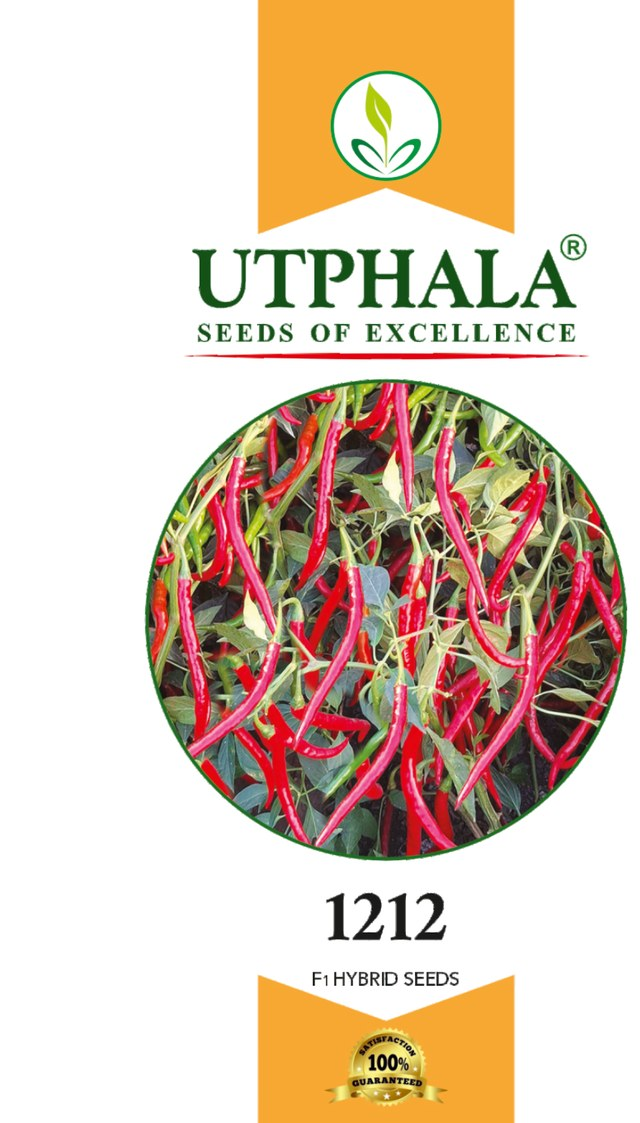
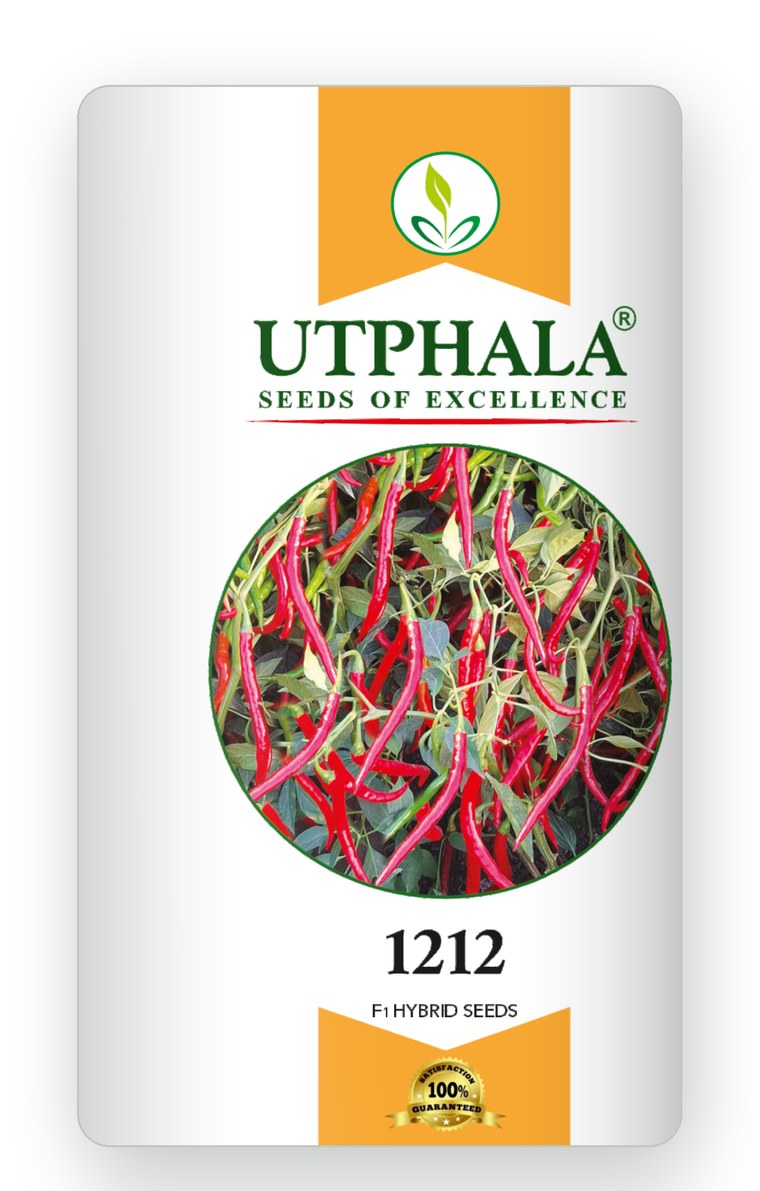
Render the pouches as real packets rather than flat artwork
The previous version pasted the print file straight in, so it read as
four flat rectangles. Each front is now composited into a product shot:
the face is warped onto a 32-degree cylinder so it bulges the way a
filled pouch does, lit from the upper left with a gentle roll-off to
both edges, given a soft film sheen, cut to a pouch silhouette with a
tight top radius and a wider gusseted bottom, outlined with a faint film
edge and dropped on a blurred contact shadow.

All four render onto one canvas size, bottom aligned, so the row shares
a single baseline instead of the shadows sitting at four different
heights.

Shading is multiply-only, so the printed centre of the artwork is
untouched and the branding keeps its exact colour; an earlier attempt
with an additive pass turned the white pouch silver.

The shadow is baked on white to match this section, so .pouch no longer
carries a card background, radius or box-shadow, which would have drawn
a second box behind each packet.

diff --git a/utphala.com/gallery.html b/utphala.com/gallery.html
@@ -9,7 +9,7 @@
   <link rel="preconnect" href="https://fonts.googleapis.com">
   <link rel="preconnect" href="https://fonts.gstatic.com" crossorigin>
   <link href="https://fonts.googleapis.com/css2?family=Poppins:wght@400;500;600;700&family=Nunito:wght@400;600;700&display=swap" rel="stylesheet">
-  <link rel="stylesheet" href="site.css?v=20260808c">
+  <link rel="stylesheet" href="site.css?v=20260808d">
 </head>
 <body>
 
@@ -142,7 +142,7 @@
     <svg viewBox="0 0 32 32"><path d="M16 .5C7.4.5.5 7.4.5 16c0 2.7.7 5.4 2 7.7L.5 31.5l8-2.1c2.3 1.2 4.8 1.9 7.5 1.9 8.6 0 15.5-6.9 15.5-15.5S24.6.5 16 .5zm0 28.2c-2.4 0-4.7-.6-6.7-1.8l-.5-.3-4.7 1.2 1.3-4.6-.3-.5c-1.3-2-2-4.4-2-6.8C3.1 8.9 8.9 3.1 16 3.1S28.9 8.9 28.9 16 23.1 28.7 16 28.7zm7.1-9.6c-.4-.2-2.3-1.1-2.6-1.3-.4-.1-.6-.2-.9.2-.3.4-1 1.3-1.3 1.5-.2.3-.5.3-.9.1-.4-.2-1.6-.6-3.1-1.9-1.1-1-1.9-2.3-2.1-2.6-.2-.4 0-.6.2-.8.2-.2.4-.5.6-.7.2-.2.3-.4.4-.7.1-.3.1-.5 0-.7-.1-.2-.9-2.1-1.2-2.9-.3-.8-.6-.7-.9-.7h-.8c-.3 0-.7.1-1.1.5-.4.4-1.4 1.4-1.4 3.4s1.5 3.9 1.7 4.2c.2.3 2.9 4.5 7.1 6.3 1 .4 1.8.7 2.4.9 1 .3 1.9.3 2.6.2.8-.1 2.3-1 2.7-1.9.3-.9.3-1.7.2-1.9-.1-.2-.4-.3-.8-.5z"/></svg>
   </a>
 
-  <script src="product-data.js?v=20260808c"></script>
-  <script src="site.js?v=20260808c"></script>
+  <script src="product-data.js?v=20260808d"></script>
+  <script src="site.js?v=20260808d"></script>
 </body>
 </html>

diff --git a/utphala.com/products.html b/utphala.com/products.html
@@ -9,7 +9,7 @@
   <link rel="preconnect" href="https://fonts.googleapis.com">
   <link rel="preconnect" href="https://fonts.gstatic.com" crossorigin>
   <link href="https://fonts.googleapis.com/css2?family=Poppins:wght@400;500;600;700&family=Nunito:wght@400;600;700&display=swap" rel="stylesheet">
-  <link rel="stylesheet" href="site.css?v=20260808c">
+  <link rel="stylesheet" href="site.css?v=20260808d">
 </head>
 <body>
 
@@ -394,7 +394,7 @@
     <svg viewBox="0 0 32 32"><path d="M16 .5C7.4.5.5 7.4.5 16c0 2.7.7 5.4 2 7.7L.5 31.5l8-2.1c2.3 1.2 4.8 1.9 7.5 1.9 8.6 0 15.5-6.9 15.5-15.5S24.6.5 16 .5zm0 28.2c-2.4 0-4.7-.6-6.7-1.8l-.5-.3-4.7 1.2 1.3-4.6-.3-.5c-1.3-2-2-4.4-2-6.8C3.1 8.9 8.9 3.1 16 3.1S28.9 8.9 28.9 16 23.1 28.7 16 28.7zm7.1-9.6c-.4-.2-2.3-1.1-2.6-1.3-.4-.1-.6-.2-.9.2-.3.4-1 1.3-1.3 1.5-.2.3-.5.3-.9.1-.4-.2-1.6-.6-3.1-1.9-1.1-1-1.9-2.3-2.1-2.6-.2-.4 0-.6.2-.8.2-.2.4-.5.6-.7.2-.2.3-.4.4-.7.1-.3.1-.5 0-.7-.1-.2-.9-2.1-1.2-2.9-.3-.8-.6-.7-.9-.7h-.8c-.3 0-.7.1-1.1.5-.4.4-1.4 1.4-1.4 3.4s1.5 3.9 1.7 4.2c.2.3 2.9 4.5 7.1 6.3 1 .4 1.8.7 2.4.9 1 .3 1.9.3 2.6.2.8-.1 2.3-1 2.7-1.9.3-.9.3-1.7.2-1.9-.1-.2-.4-.3-.8-.5z"/></svg>
   </a>
 
-  <script src="product-data.js?v=20260808c"></script>
-  <script src="site.js?v=20260808c"></script>
+  <script src="product-data.js?v=20260808d"></script>
+  <script src="site.js?v=20260808d"></script>
 </body>
 </html>

diff --git a/utphala.com/about.html b/utphala.com/about.html
@@ -9,7 +9,7 @@
   <link rel="preconnect" href="https://fonts.googleapis.com">
   <link rel="preconnect" href="https://fonts.gstatic.com" crossorigin>
   <link href="https://fonts.googleapis.com/css2?family=Poppins:wght@400;500;600;700&family=Nunito:wght@400;600;700&display=swap" rel="stylesheet">
-  <link rel="stylesheet" href="site.css?v=20260808c">
+  <link rel="stylesheet" href="site.css?v=20260808d">
 </head>
 <body>
 
@@ -239,6 +239,6 @@
     <svg viewBox="0 0 32 32"><path d="M16 .5C7.4.5.5 7.4.5 16c0 2.7.7 5.4 2 7.7L.5 31.5l8-2.1c2.3 1.2 4.8 1.9 7.5 1.9 8.6 0 15.5-6.9 15.5-15.5S24.6.5 16 .5zm0 28.2c-2.4 0-4.7-.6-6.7-1.8l-.5-.3-4.7 1.2 1.3-4.6-.3-.5c-1.3-2-2-4.4-2-6.8C3.1 8.9 8.9 3.1 16 3.1S28.9 8.9 28.9 16 23.1 28.7 16 28.7zm7.1-9.6c-.4-.2-2.3-1.1-2.6-1.3-.4-.1-.6-.2-.9.2-.3.4-1 1.3-1.3 1.5-.2.3-.5.3-.9.1-.4-.2-1.6-.6-3.1-1.9-1.1-1-1.9-2.3-2.1-2.6-.2-.4 0-.6.2-.8.2-.2.4-.5.6-.7.2-.2.3-.4.4-.7.1-.3.1-.5 0-.7-.1-.2-.9-2.1-1.2-2.9-.3-.8-.6-.7-.9-.7h-.8c-.3 0-.7.1-1.1.5-.4.4-1.4 1.4-1.4 3.4s1.5 3.9 1.7 4.2c.2.3 2.9 4.5 7.1 6.3 1 .4 1.8.7 2.4.9 1 .3 1.9.3 2.6.2.8-.1 2.3-1 2.7-1.9.3-.9.3-1.7.2-1.9-.1-.2-.4-.3-.8-.5z"/></svg>
   </a>
 
-  <script src="site.js?v=20260808c"></script>
+  <script src="site.js?v=20260808d"></script>
 </body>
 </html>

diff --git a/utphala.com/contact.html b/utphala.com/contact.html
@@ -9,7 +9,7 @@
   <link rel="preconnect" href="https://fonts.googleapis.com">
   <link rel="preconnect" href="https://fonts.gstatic.com" crossorigin>
   <link href="https://fonts.googleapis.com/css2?family=Poppins:wght@400;500;600;700&family=Nunito:wght@400;600;700&display=swap" rel="stylesheet">
-  <link rel="stylesheet" href="site.css?v=20260808c">
+  <link rel="stylesheet" href="site.css?v=20260808d">
 </head>
 <body>
 
@@ -233,6 +233,6 @@
     <svg viewBox="0 0 32 32"><path d="M16 .5C7.4.5.5 7.4.5 16c0 2.7.7 5.4 2 7.7L.5 31.5l8-2.1c2.3 1.2 4.8 1.9 7.5 1.9 8.6 0 15.5-6.9 15.5-15.5S24.6.5 16 .5zm0 28.2c-2.4 0-4.7-.6-6.7-1.8l-.5-.3-4.7 1.2 1.3-4.6-.3-.5c-1.3-2-2-4.4-2-6.8C3.1 8.9 8.9 3.1 16 3.1S28.9 8.9 28.9 16 23.1 28.7 16 28.7zm7.1-9.6c-.4-.2-2.3-1.1-2.6-1.3-.4-.1-.6-.2-.9.2-.3.4-1 1.3-1.3 1.5-.2.3-.5.3-.9.1-.4-.2-1.6-.6-3.1-1.9-1.1-1-1.9-2.3-2.1-2.6-.2-.4 0-.6.2-.8.2-.2.4-.5.6-.7.2-.2.3-.4.4-.7.1-.3.1-.5 0-.7-.1-.2-.9-2.1-1.2-2.9-.3-.8-.6-.7-.9-.7h-.8c-.3 0-.7.1-1.1.5-.4.4-1.4 1.4-1.4 3.4s1.5 3.9 1.7 4.2c.2.3 2.9 4.5 7.1 6.3 1 .4 1.8.7 2.4.9 1 .3 1.9.3 2.6.2.8-.1 2.3-1 2.7-1.9.3-.9.3-1.7.2-1.9-.1-.2-.4-.3-.8-.5z"/></svg>
   </a>
 
-  <script src="site.js?v=20260808c"></script>
+  <script src="site.js?v=20260808d"></script>
 </body>
 </html>

diff --git a/utphala.com/index.html b/utphala.com/index.html
@@ -9,7 +9,7 @@
   <link rel="preconnect" href="https://fonts.googleapis.com">
   <link rel="preconnect" href="https://fonts.gstatic.com" crossorigin>
   <link href="https://fonts.googleapis.com/css2?family=Poppins:wght@400;500;600;700&family=Nunito:wght@400;600;700&display=swap" rel="stylesheet">
-  <link rel="stylesheet" href="site.css?v=20260808c">
+  <link rel="stylesheet" href="site.css?v=20260808d">
 </head>
 <body>
 
@@ -281,6 +281,6 @@
     <svg viewBox="0 0 32 32"><path d="M16 .5C7.4.5.5 7.4.5 16c0 2.7.7 5.4 2 7.7L.5 31.5l8-2.1c2.3 1.2 4.8 1.9 7.5 1.9 8.6 0 15.5-6.9 15.5-15.5S24.6.5 16 .5zm0 28.2c-2.4 0-4.7-.6-6.7-1.8l-.5-.3-4.7 1.2 1.3-4.6-.3-.5c-1.3-2-2-4.4-2-6.8C3.1 8.9 8.9 3.1 16 3.1S28.9 8.9 28.9 16 23.1 28.7 16 28.7zm7.1-9.6c-.4-.2-2.3-1.1-2.6-1.3-.4-.1-.6-.2-.9.2-.3.4-1 1.3-1.3 1.5-.2.3-.5.3-.9.1-.4-.2-1.6-.6-3.1-1.9-1.1-1-1.9-2.3-2.1-2.6-.2-.4 0-.6.2-.8.2-.2.4-.5.6-.7.2-.2.3-.4.4-.7.1-.3.1-.5 0-.7-.1-.2-.9-2.1-1.2-2.9-.3-.8-.6-.7-.9-.7h-.8c-.3 0-.7.1-1.1.5-.4.4-1.4 1.4-1.4 3.4s1.5 3.9 1.7 4.2c.2.3 2.9 4.5 7.1 6.3 1 .4 1.8.7 2.4.9 1 .3 1.9.3 2.6.2.8-.1 2.3-1 2.7-1.9.3-.9.3-1.7.2-1.9-.1-.2-.4-.3-.8-.5z"/></svg>
   </a>
 
-  <script src="site.js?v=20260808c"></script>
+  <script src="site.js?v=20260808d"></script>
 </body>
 </html>

diff --git a/utphala.com/site.css b/utphala.com/site.css
@@ -593,19 +593,15 @@ section { padding: 70px 0; }
   gap: 22px;
   margin: 34px 0 32px;
 }
+/* the pouch shape and its shadow are baked into the image (on white, to
+   match this section), so no card treatment here — that would draw a
+   second box behind the packet */
 .pouch {
   display: block;
-  background: var(--white);
-  border-radius: 12px;
-  overflow: hidden;
-  box-shadow: var(--shadow);
-  transition: transform .25s, box-shadow .25s;
+  transition: transform .28s;
 }
 .pouch img { width: 100%; height: auto; }
-.pouch:hover {
-  transform: translateY(-6px);
-  box-shadow: 0 14px 34px rgba(20, 83, 45, .18);
-}
+.pouch:hover { transform: translateY(-8px) scale(1.015); }
 .pouch.reveal { transition-delay: calc(var(--i) * 90ms); }
 
 /* ---------- Stats band ---------- */
